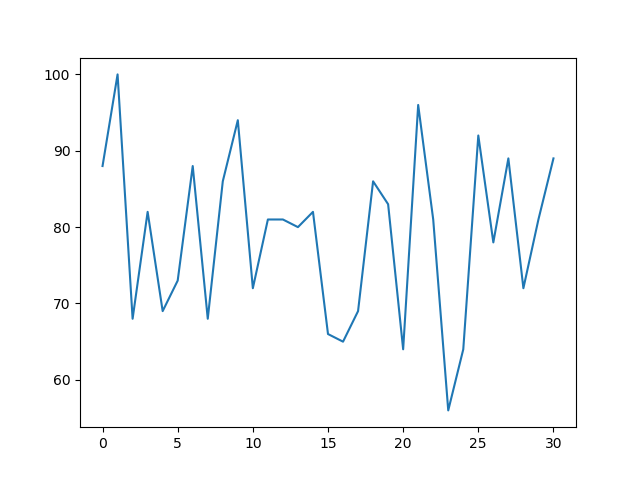
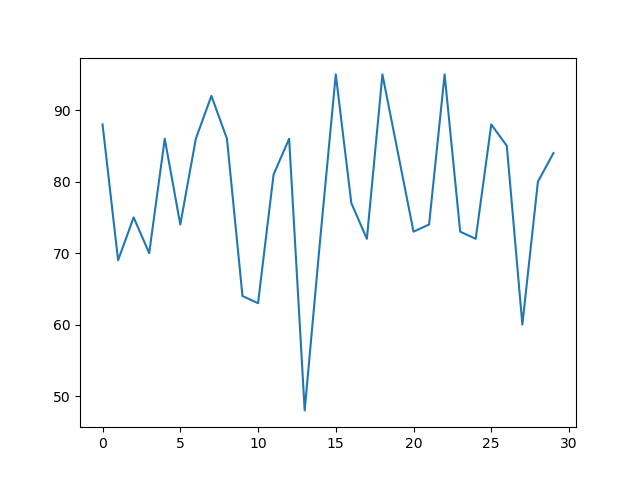
test

diff --git a/round.py b/round.py
@@ -29,7 +29,7 @@ class Round(object):
         price transactions, agents who've met, last round and surplus.
         """
 
-        self.agents = self.create_agents_C(types, amount, valuations, costs)
+        self.agents = self.create_agents(types, amount, valuations, costs)
         Round.name = self.agents[0].name
         self.max_bid = np.array([0, 0])
         self.min_ask = np.array([0, 200])
@@ -115,6 +115,8 @@ class Round(object):
         self.surplus += (buyer.value - seller.value)
         self.transactions.append(buyer.price)
         seller.transactions.append(buyer.price)
+        buyer.price = 0
+        seller.price = 200
         self.agents = [agent for agent in self.agents if agent not in (buyer, seller)]
 
     def reset_offers(self):
@@ -137,37 +139,46 @@ class Round(object):
         Check if agents still need to
         participate in future bidings
         """
-
+        #
         if buyer.quantity == 0 or seller.quantity == 0:
             self.last_round = True
         else:
             self.succes.append(buyer)
             self.succes.append(seller)
+        # if buyer.quantity != 0:
+        #     self.succes.append(buyer)
+        # if seller.quantity != 0:
+        #     self.succes.append(seller)
 
     def check_round(self):
         """
         Checks if round need to be reset
         """
 
+        # # ONLY NECESSARY FOR ZI-C AGENTS!!!!
+        # if not self.check_possible_transactions():
+        #     self.agents += self.succes
+        #     self.succes = []
+            # self.last_round == False
+
         if len(self.succes) == 12:
             self.agents = self.succes
             self.succes = []
+            # self.last_round == False
 
-        # ONLY NECESSARY FOR ZI-C AGENTS!!!!
-        elif not self.check_possible_transactions():
-            self.agents += self.succes
-            self.succes = []
 
     def check_possible_transactions(self):
         """
-        Checks if transactions can be made
+        Checks if transactions can be made by participants
         (only important for ZI-C agents)
         """
 
         buyers = []
         sellers = []
+        # participants = self.agents + self.succes
 
         for agent in self.agents:
+        # for agent in self.agents
             if agent.type == "buyer":
                 buyers.append(agent.value)
             elif agent.type == "seller":
@@ -183,6 +194,43 @@ class Round(object):
 
         return False
 
+
+    def check_last_transactions(self):
+        """
+        Checks if transactions can be made
+        (only important for ZI-C agents)
+        """
+
+        buyers = []
+        sellers = []
+        participants = self.agents + self.succes
+
+        for agent in participants:
+        # for agent in self.agents
+            if agent.type == "buyer":
+                buyers.append(agent.value)
+            elif agent.type == "seller":
+                sellers.append(agent.value)
+
+        deal = 0
+        for buy, sell in zip(buyers, sellers):
+            if buy >= sell:
+                deal += 1
+
+        if deal:
+            return True
+
+        return False
+
+    def check_last_round(self):
+        """
+        For ZI-C!!!!
+        """
+        trans_pos = self.check_last_transactions()
+        self.last_round == True
+        # if len
+        # pass
+
     def make_transaction(self):
         """
         Randomsly selects agents,
@@ -193,6 +241,7 @@ class Round(object):
 
         buyer, seller = self.pick_agents_transactions()
         self.preprocces_transaction(buyer, seller)
-        self.reset_offers()
         self.check_agents(buyer, seller)
+        self.reset_offers()
         self.check_round()
+        # self.check_last_round()

diff --git a/ZI_U.py b/ZI_U.py
@@ -20,6 +20,8 @@ TIME = 120
 ROUNDS = 6
 VALUATION = np.array([[105, 6], [97, 6], [90, 6], [82, 6], [75, 6], [70, 6]])
 COSTS = np.array([[40, 6], [47, 6], [55, 6], [62, 6], [65, 6], [80, 6]])
+# VALUATION = np.array([[105, 1], [97, 2], [90, 3], [82, 4], [75, 5], [70, 6]])
+# COSTS = np.array([[40, 6], [47, 5], [55, 4], [62, 3], [65, 2], [80, 1]])
 
 # # plots demand/supply curve
 # fig = plt.figure()
@@ -63,7 +65,6 @@ def main():
         print(f"allocative efficiency: {round.surplus / surplus * 100}")
 
         save_plots_transactions(round, counter)
-        print(round.transactions)
 
 def total_surplus():
     """
